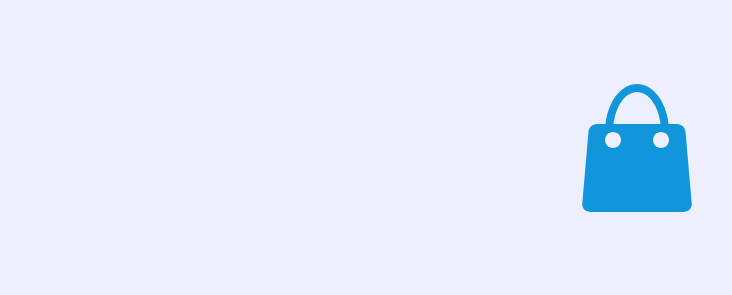
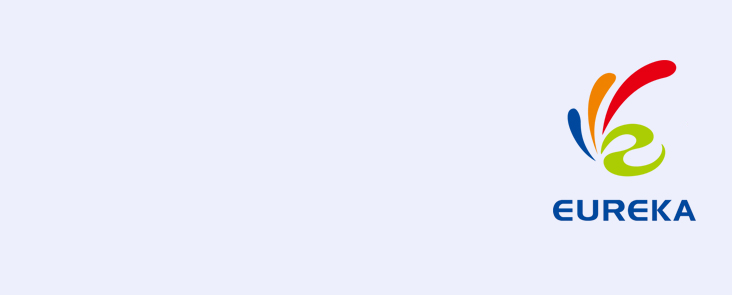
修改

Changed region(s): [[0.7514, 0.1831, 0.9617, 0.7627]]

diff --git a/app/view/admin/login.html b/app/view/admin/login.html
@@ -1,7 +1,7 @@
 
 <html>
     <head>
-      <title>翼瑞可科技</title>
+      <title>eureka科技</title>
         <link rel="stylesheet" href="/public/admin/css/login.css"> 
        </head>
     <body>
@@ -9,7 +9,7 @@
         <div id="login">
             <form action="/admin/doLogin" method="post" id="myform">
                 <input type="hidden" name="_csrf" value="<%=csrf%>">
-                   <div class="l_title">翼瑞可科技管理后台</div>
+                   <div class="l_title">eureka科技管理后台</div>
                     <dl>
                         <dd>管理员姓名：<input class="text" type="text" name="username" id="username"></dd>
                         <dd>管理员密码：<input class="text" type="password" name="password" id="password"></dd>

diff --git a/app/controller/admin/base.js b/app/controller/admin/base.js
@@ -6,13 +6,15 @@ class BaseController extends Controller {
     //成功
     async success(redirectURL) {
         await this.ctx.render('admin/public/success',{
-            redirectURL:redirectURL
+            redirectURL:redirectURL,
+            message:message || '操作成功'
         })
     }
     //失败
     async error(redirectURL) {
         await this.ctx.render('admin/public/error',{
-            redirectURL:redirectURL
+            redirectURL:redirectURL,
+            message:message || '操作失败'
         })
     }
     //验证
@@ -20,7 +22,6 @@ class BaseController extends Controller {
         let captcha = await this.service.tools.captcha();
         this.ctx.response.type = 'image/svg+xml';
         this.ctx.body = captcha.data;
-    
     }
 }
 

diff --git a/app/controller/admin/login.js b/app/controller/admin/login.js
@@ -10,8 +10,17 @@ class LoginController extends BaseController {
     //热行用户登录
     async doLogin() {
         let data = this.ctx.request.body;
-        console.log(data);
-        
+        let password = await this.service.tools.md5(data.password);
+
+        let code = data.code;
+        if(code == this.ctx.session.code) {
+
+        } else {
+            await this.error('/admin/login','验证码不正确');
+        }
+
+       
+
     }
 
 

diff --git a/app/service/tools.js b/app/service/tools.js
@@ -1,5 +1,5 @@
 'use strict';
-
+const md5 = require('md5');
 const Service = require('egg').Service;
 const svgCaptcha = require('svg-captcha');
 class ToolsService extends Service {
@@ -14,6 +14,10 @@ class ToolsService extends Service {
         });
         this.ctx.session.code = captcha.text;
         return captcha;
+    }
+    //生成加密码
+    async md5(str) {
+        return md5(str);
     }
 }
 

diff --git a/config/config.default.js b/config/config.default.js
@@ -39,8 +39,8 @@ module.exports = appInfo => {
   config.cluster = {
     listen: {
       path: '',
-      port: 443,
-      hostname: '0.0.0.0',
+      port: 7001,
+      hostname: 'localhost',
     }
 };
 
